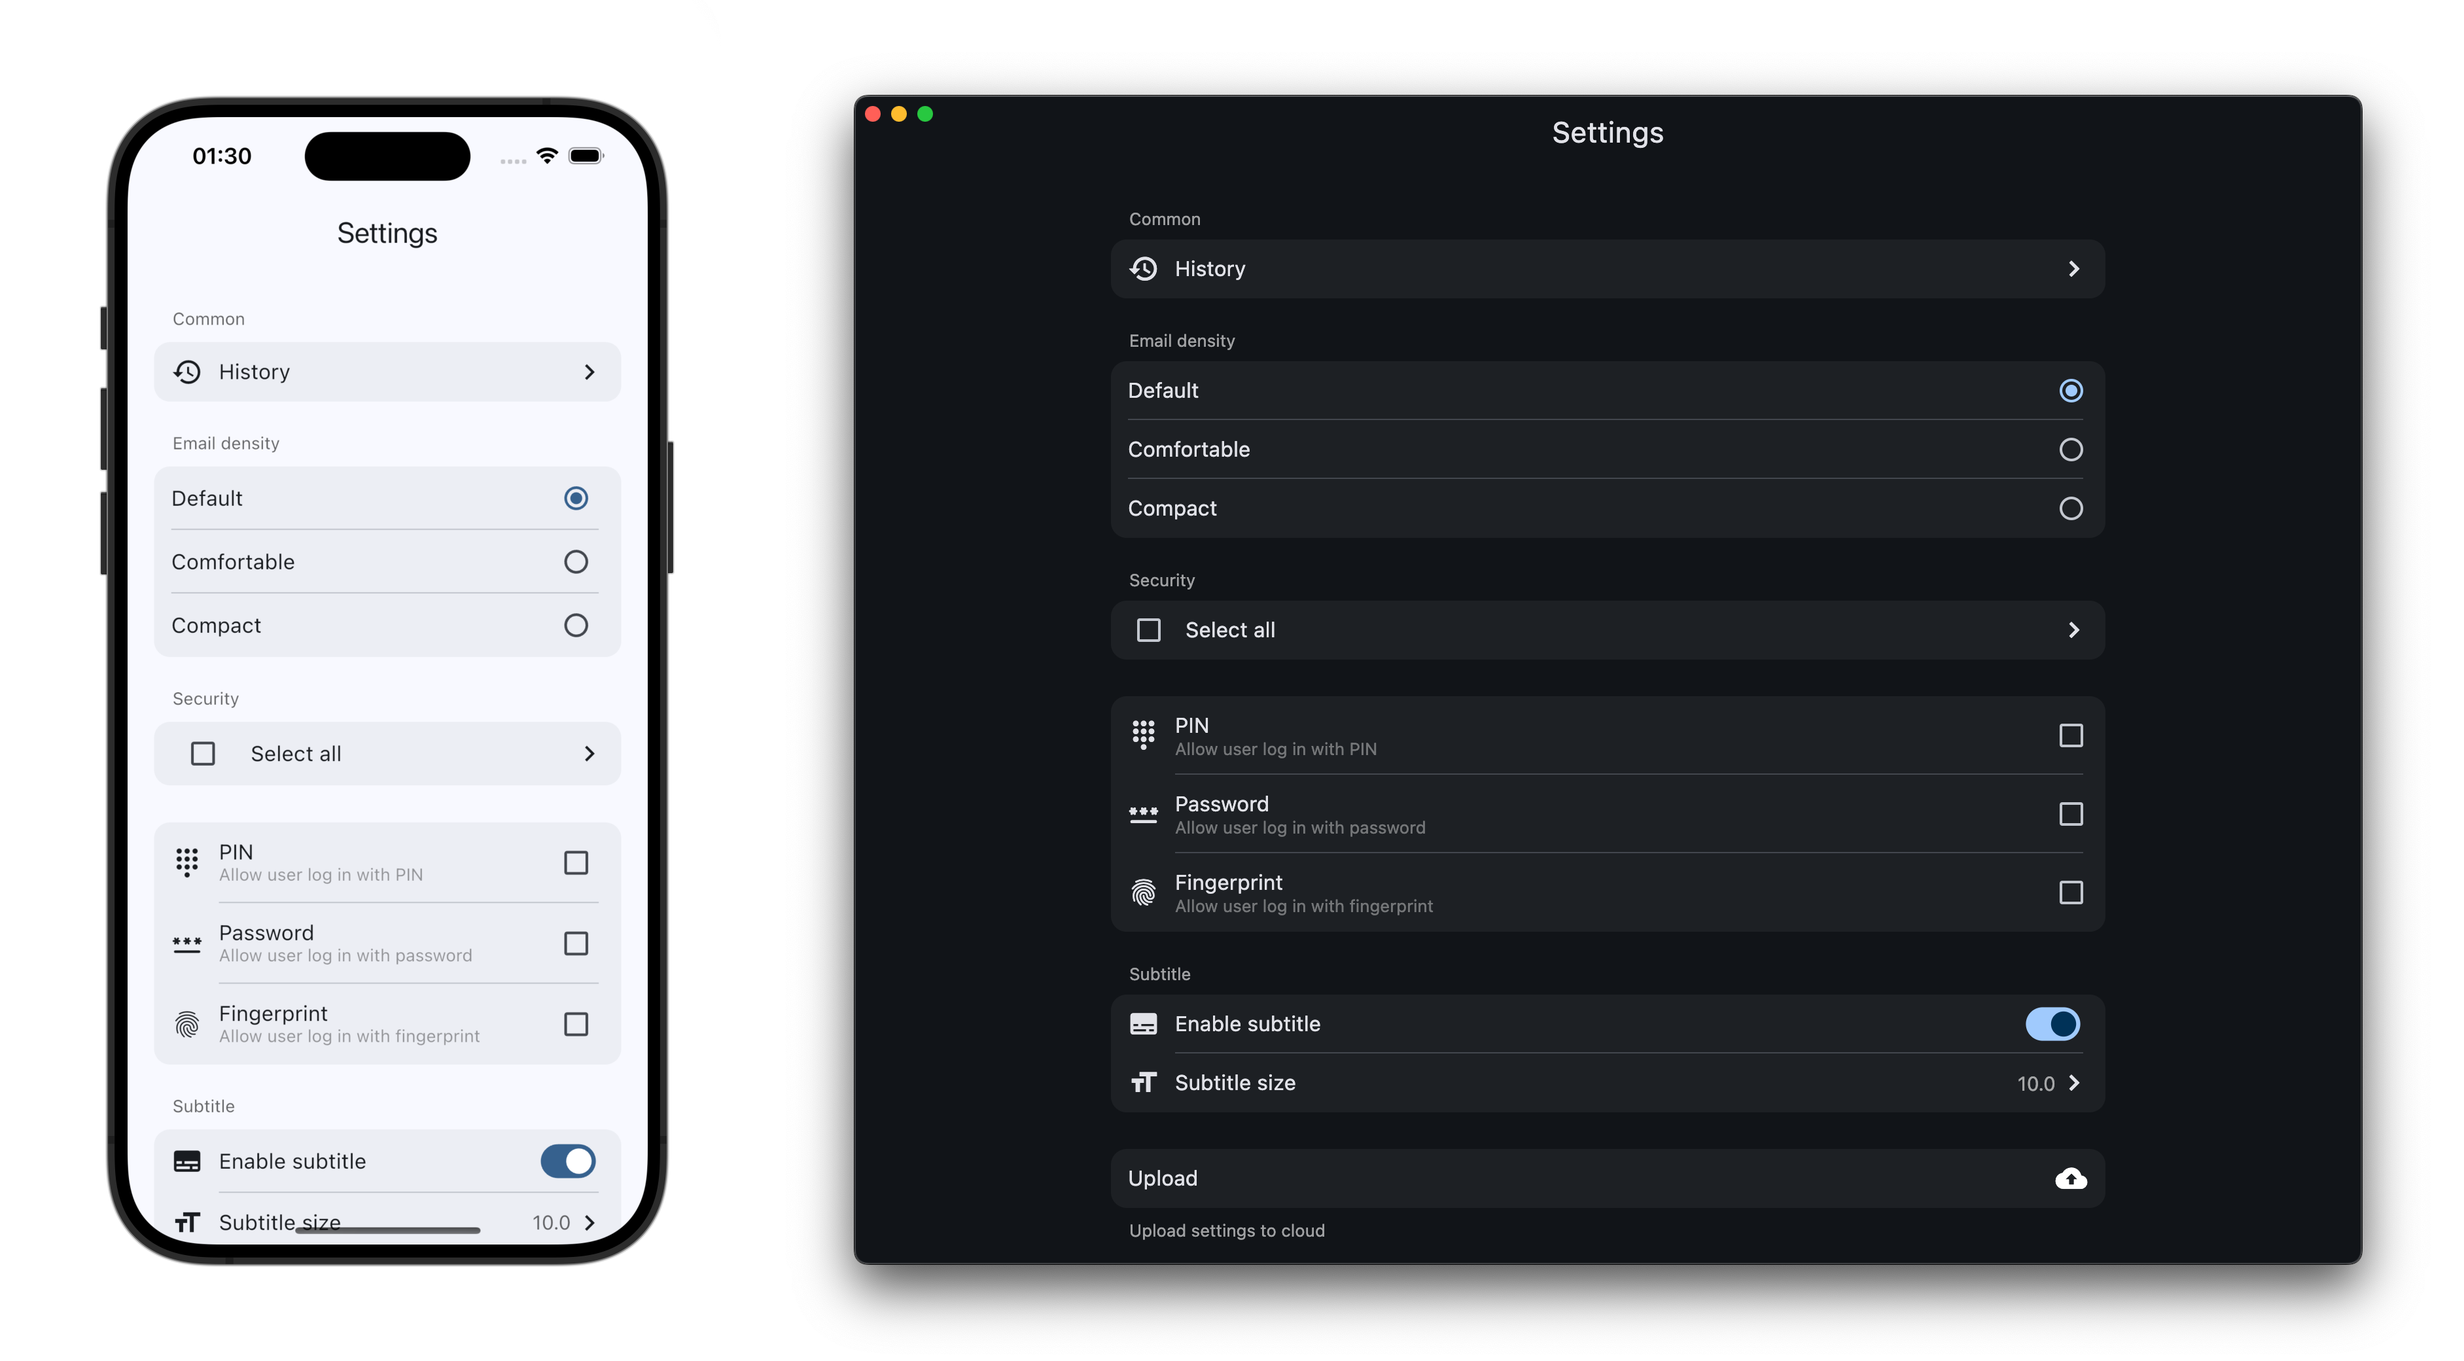
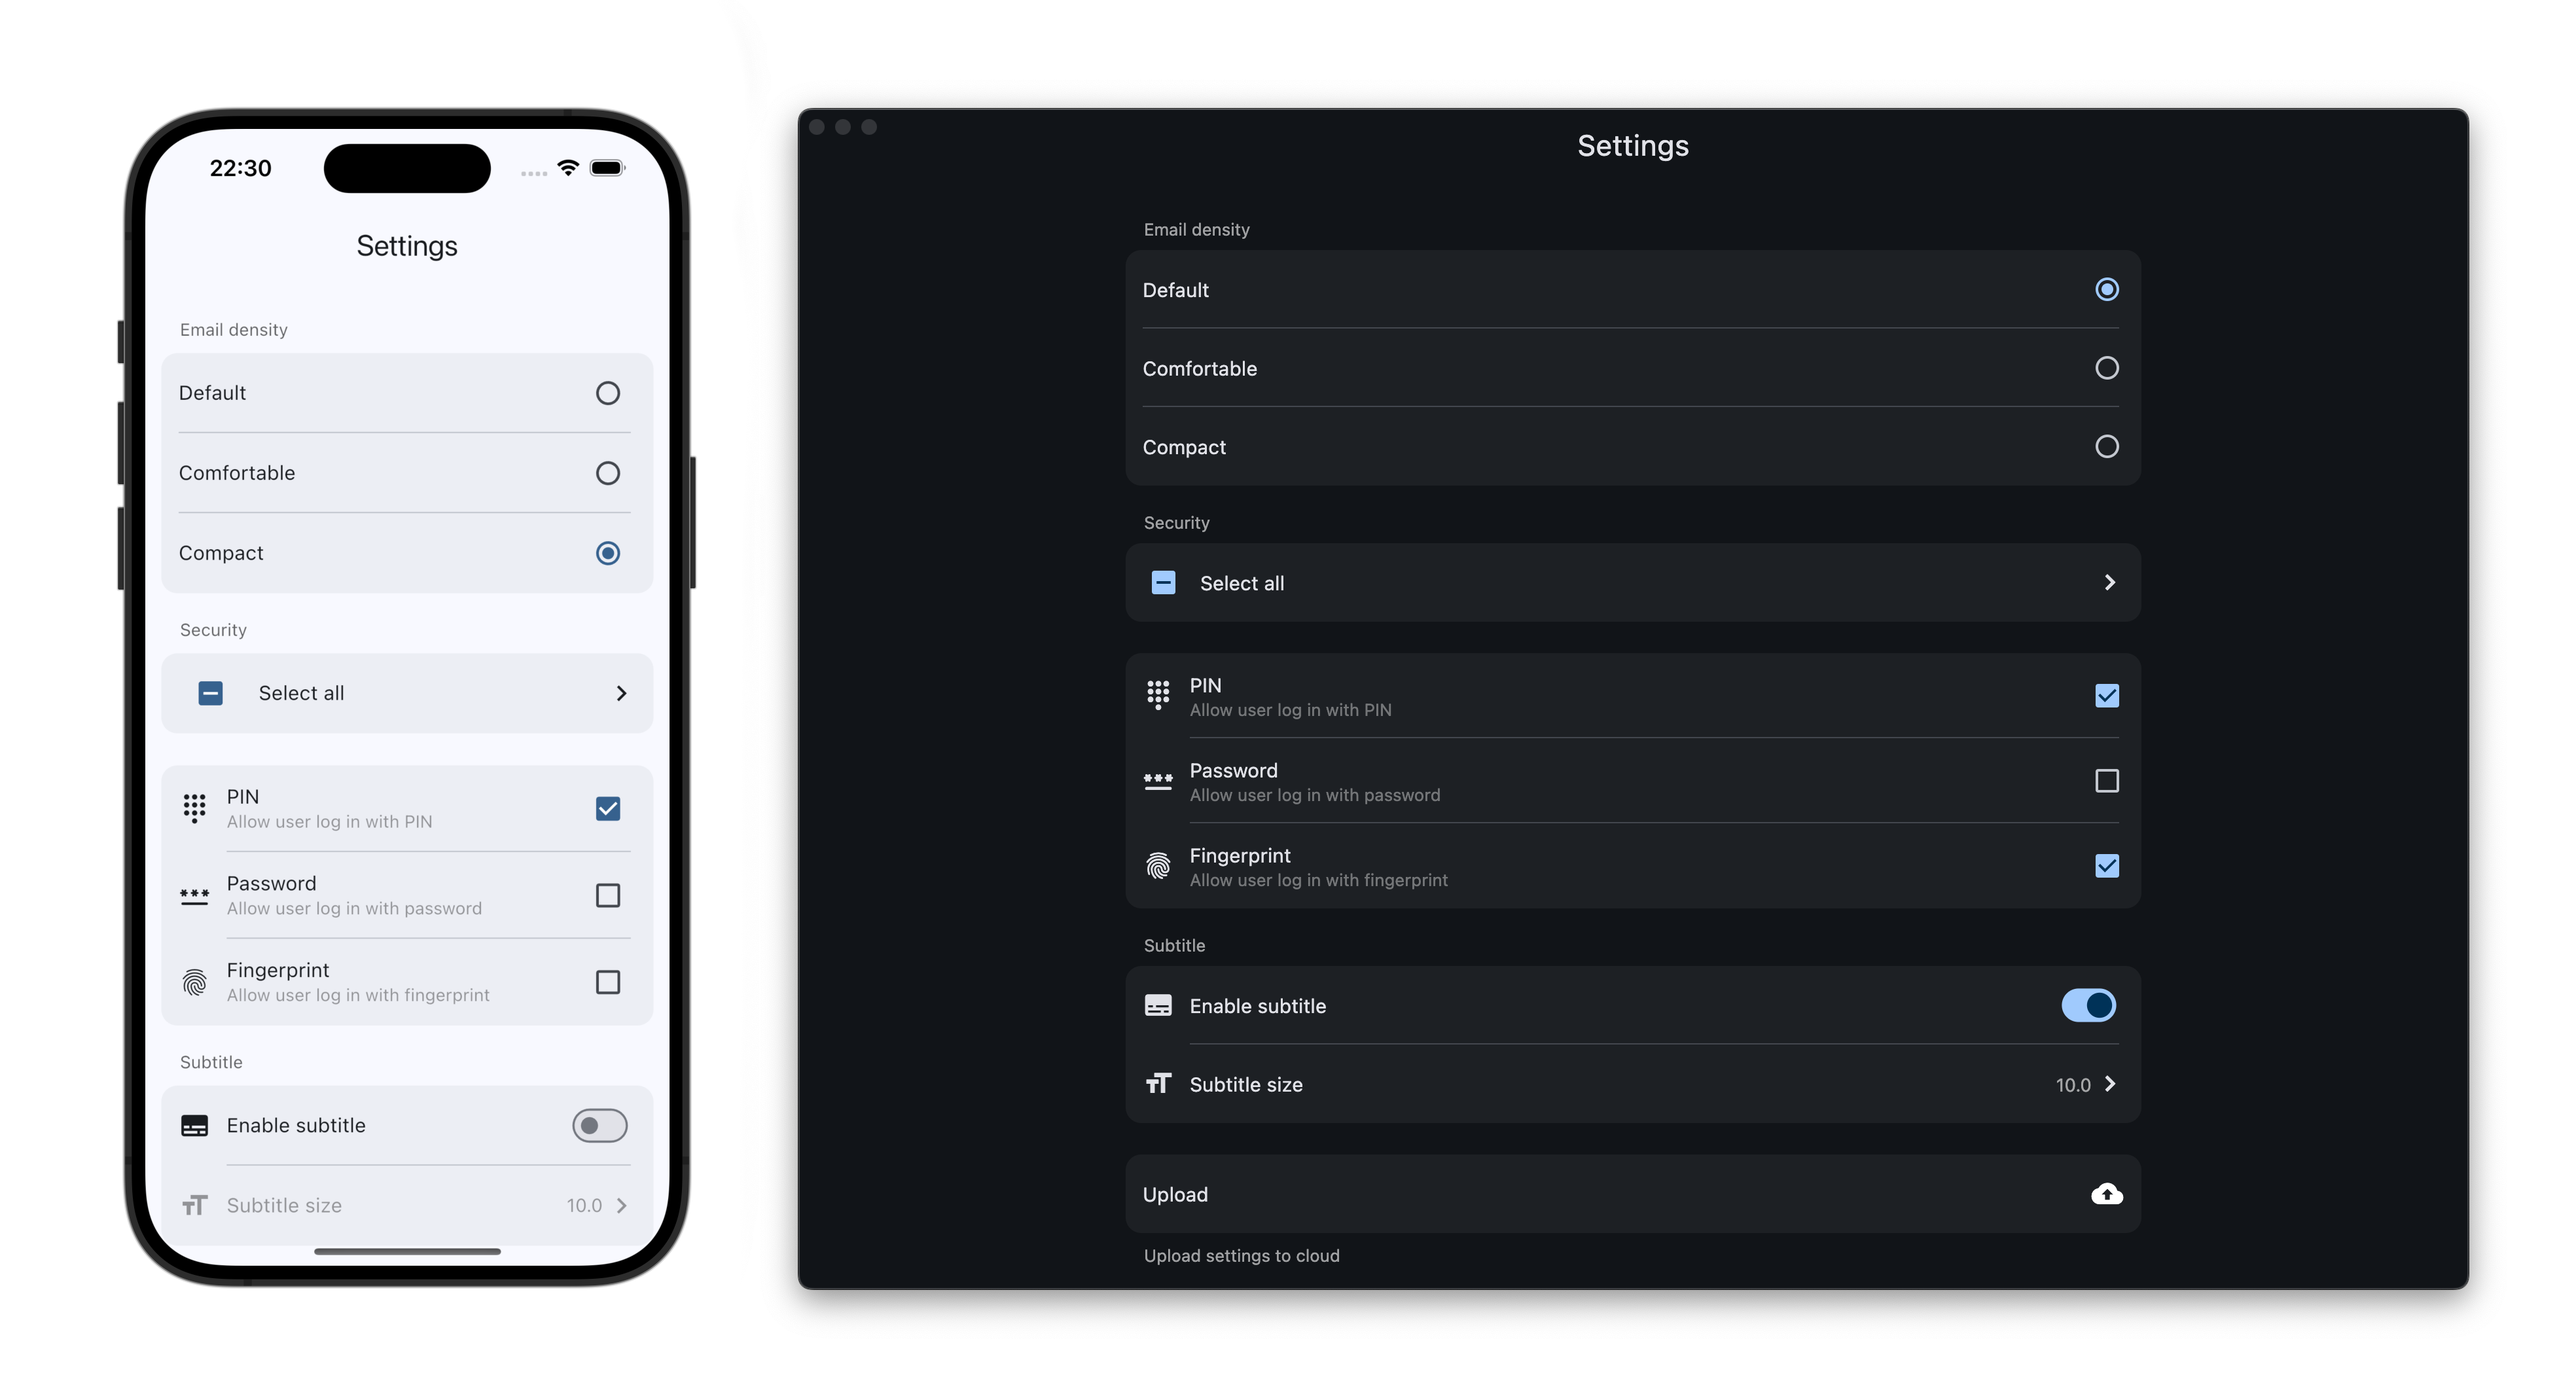
mod: modify some spacing to make it less tight.

diff --git a/lib/tile/settings_tile.dart b/lib/tile/settings_tile.dart
@@ -177,6 +177,7 @@ class SettingsTile<T> extends AbstractSettingsTile {
 
   Widget buildTitle(BuildContext context) {
     return Column(
+      mainAxisAlignment: MainAxisAlignment.center,
       crossAxisAlignment: CrossAxisAlignment.start,
       children: [
         DefaultTextStyle(
@@ -184,10 +185,11 @@ class SettingsTile<T> extends AbstractSettingsTile {
               color: enabled
                   ? Theme.of(context).colorScheme.onSurface
                   : Theme.of(context).disabledColor,
-              fontSize: 16),
+              fontSize: 15),
           child: title,
         ),
-        if (description != null)
+        if (description != null) ...[
+          const SizedBox(height: 2),
           DefaultTextStyle(
             style: TextStyle(
               color: Theme.of(context).disabledColor,
@@ -195,6 +197,7 @@ class SettingsTile<T> extends AbstractSettingsTile {
             ),
             child: description!,
           ),
+        ],
       ],
     );
   }
@@ -233,7 +236,7 @@ class SettingsTile<T> extends AbstractSettingsTile {
               color: enabled
                   ? Theme.of(context).hintColor
                   : Theme.of(context).disabledColor,
-              fontSize: 15,
+              fontSize: 14,
             ),
             child: value!,
           ),
@@ -268,11 +271,8 @@ class SettingsTile<T> extends AbstractSettingsTile {
                   Row(
                     children: [
                       Expanded(
-                        child: Padding(
-                          padding: const EdgeInsetsDirectional.only(
-                            top: 13,
-                            bottom: 13,
-                          ),
+                        child: SizedBox(
+                          height: description != null ? 65 : 60,
                           child: buildTitle(context),
                         ),
                       ),

diff --git a/example/lib/main.dart b/example/lib/main.dart
@@ -62,17 +62,6 @@ class _SettingsPageState extends State<SettingsPage> {
           child: SettingsList(
             sections: [
               SettingsSection(
-                title: Text('Common'),
-                tiles: <SettingsTile>[
-                  SettingsTile.navigation(
-                    onPressed: (_) =>
-                        showToast(context, 'Navigate to history page'),
-                    leading: Icon(Icons.history),
-                    title: Text('History'),
-                  ),
-                ],
-              ),
-              SettingsSection(
                 title: Text('Email density'),
                 tiles: densityList
                     .map((e) => SettingsTile<String>.radioTile(

diff --git a/lib/section/settings_section.dart b/lib/section/settings_section.dart
@@ -20,13 +20,7 @@ class SettingsSection extends AbstractSettingsSection {
   @override
   Widget build(BuildContext context) {
     return Padding(
-      padding: margin ??
-          const EdgeInsets.only(
-            top: 10,
-            bottom: 10,
-            left: 16,
-            right: 16,
-          ),
+      padding: margin ?? EdgeInsets.all(8),
       child: Column(
         crossAxisAlignment: CrossAxisAlignment.start,
         children: [
